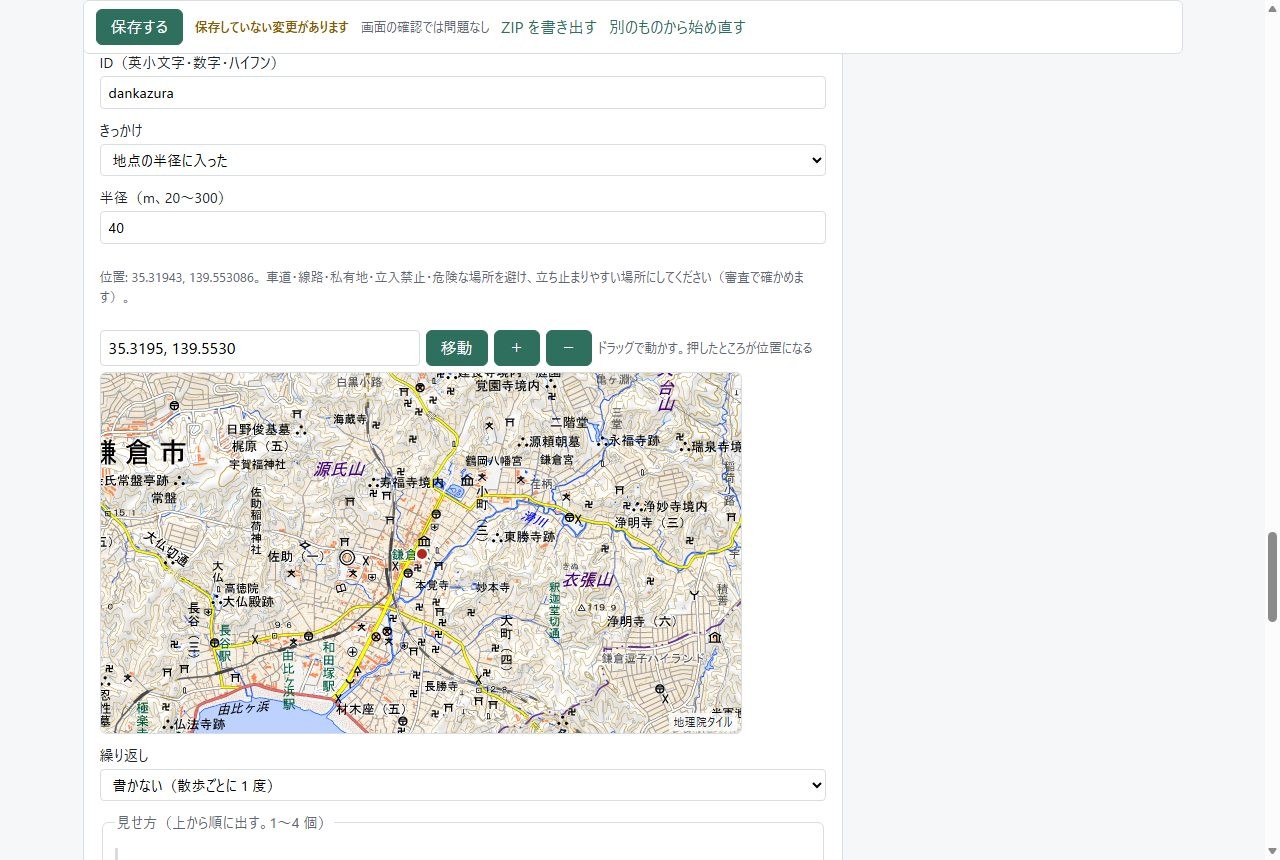
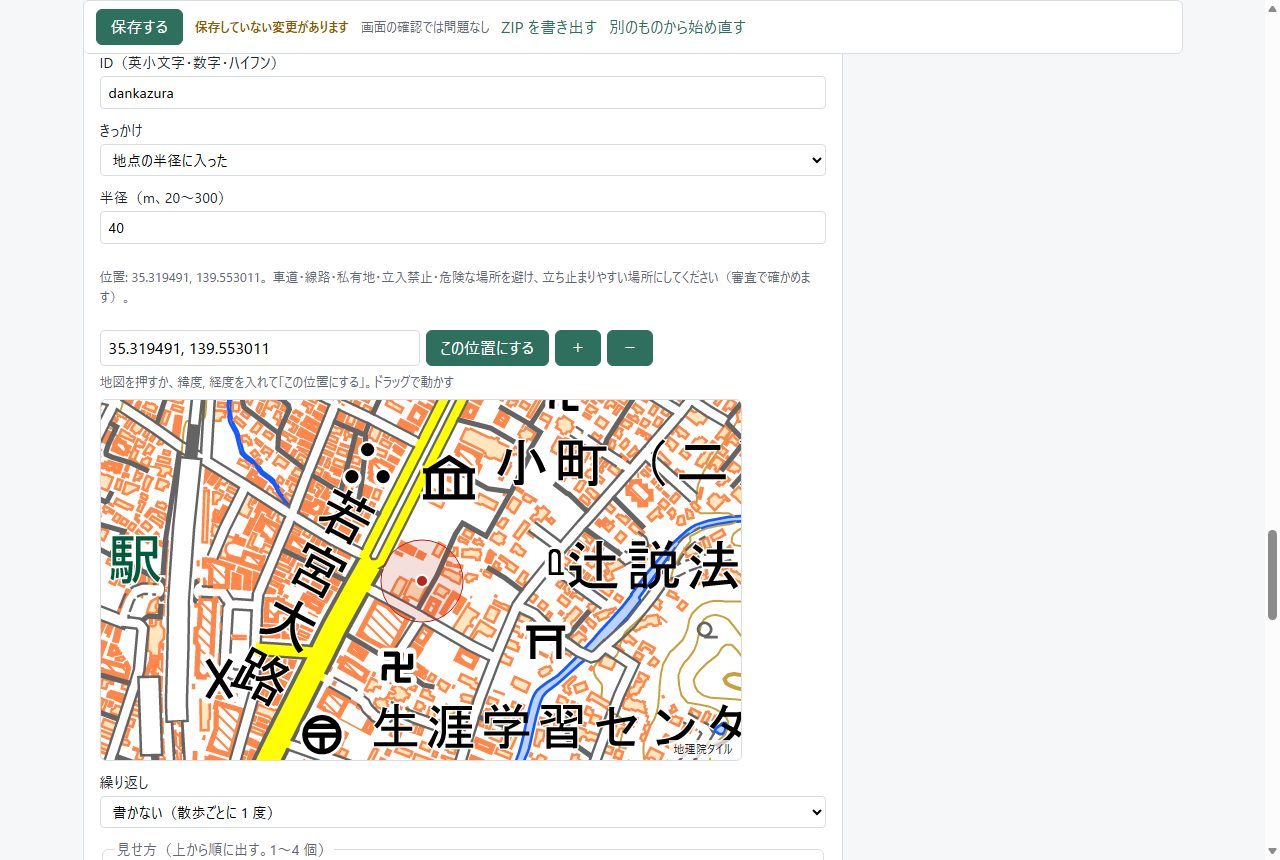
fix: 地図の位置を欄にも出し、緯度・経度を入れても位置を決められるようにする
地図を押すと、選んだ緯度・経度を地図の上の欄にも入れる。欄に入れて「この位置にする」
（Enter でも）を押すと、その場所を位置にする。位置を決めたら、半径の円が見える
縮尺まで拡大する。手順書の説明と画像も合わせる。

Changed region(s): [[0.0625, 0.3628, 0.625, 0.9977], [0.1562, 0.3023, 0.625, 0.3326], [0.625, 0.907, 0.6562, 0.9372]]

diff --git a/web/src/pages/point-map.tsx b/web/src/pages/point-map.tsx
@@ -1,8 +1,8 @@
-import { useRef, useState, type PointerEvent } from 'react';
+import { useEffect, useRef, useState, type PointerEvent } from 'react';
 import { fromPixel, toPixel } from '../geohash';
 
 // Choosing one place for a draft (DES-014): a cue's point or a resource's subject. GSI tiles as
-// for the studio's cells (cell-map.tsx); a click puts the point, a drag moves the map.
+// for the studio's cells (cell-map.tsx); a click or the typed coordinates put the point, a drag moves the map.
 
 const WIDTH = 640;
 const HEIGHT = 360;
@@ -10,17 +10,32 @@ const TILE = 256;
 const TILES = 'https://cyberjapandata.gsi.go.jp/xyz/std';
 /** Tokyo Station, until a point is chosen. */
 const START = { lat: 35.6812, lng: 139.7671 };
+/** Close enough to see a 20m radius once a point is chosen. */
+const POINT_ZOOM = 17;
 
 /** Metres per pixel at [lat] and [zoom] (Web Mercator). */
 const metresPerPixel = (lat: number, zoom: number) => (156543.03392 * Math.cos((lat * Math.PI) / 180)) / 2 ** zoom;
+const round6 = (v: number) => Math.round(v * 1e6) / 1e6;
 
 export function PointMap({ lat, lon, radiusM, onChange }: { lat?: number | undefined; lon?: number | undefined; radiusM?: number | undefined; onChange: (lat: number, lon: number) => void }) {
   const has = Number.isFinite(lat) && Number.isFinite(lon);
   const [center, setCenter] = useState(has ? { lat: lat!, lng: lon! } : START);
-  const [zoom, setZoom] = useState(has ? 17 : 14);
-  const [place, setPlace] = useState('');
+  const [zoom, setZoom] = useState(has ? POINT_ZOOM : 14);
+  const [place, setPlace] = useState(has ? `${String(lat)}, ${String(lon)}` : '');
   const drag = useRef<{ x: number; y: number; moved: boolean } | undefined>(undefined);
   const view = useRef<HTMLDivElement>(null);
+
+  // The box shows the chosen point, however it was chosen.
+  useEffect(() => {
+    if (Number.isFinite(lat) && Number.isFinite(lon)) setPlace(`${String(lat)}, ${String(lon)}`);
+  }, [lat, lon]);
+
+  /** Puts the point at [p], zooming in (around it) when the map is too far out to see the radius. */
+  const choose = (p: { lat: number; lng: number }, recenter: boolean) => {
+    if (recenter || zoom < POINT_ZOOM) setCenter(p);
+    setZoom((z) => Math.max(z, POINT_ZOOM));
+    onChange(round6(p.lat), round6(p.lng));
+  };
 
   const c = toPixel(center.lat, center.lng, zoom);
   const left = c.x - WIDTH / 2;
@@ -50,22 +65,23 @@ export function PointMap({ lat, lon, radiusM, onChange }: { lat?: number | undef
     drag.current = undefined;
     if (!d || d.moved || !view.current) return;
     const box = view.current.getBoundingClientRect();
-    const p = fromPixel(left + e.clientX - box.left, top + e.clientY - box.top, zoom);
-    onChange(Math.round(p.lat * 1e6) / 1e6, Math.round(p.lng * 1e6) / 1e6);
+    choose(fromPixel(left + e.clientX - box.left, top + e.clientY - box.top, zoom), false);
   };
   const go = () => {
     const m = /^\s*(-?\d+(?:\.\d+)?)\s*[,，\s]\s*(-?\d+(?:\.\d+)?)\s*$/.exec(place);
-    if (m) setCenter({ lat: Number(m[1]), lng: Number(m[2]) });
+    const p = m ? { lat: Number(m[1]), lng: Number(m[2]) } : undefined;
+    if (p && Math.abs(p.lat) <= 85 && Math.abs(p.lng) <= 180) choose(p, true);
   };
 
   return (
     <div className="cell-map">
       <div className="cell-map-tools">
-        <input placeholder="緯度, 経度（例 35.3260, 139.5565。地図サービスからコピー）" value={place} onChange={(e) => setPlace(e.target.value)} />
-        <button type="button" onClick={go}>移動</button>
+        <input aria-label="位置（緯度, 経度）" placeholder="緯度, 経度（例 35.3260, 139.5565。地図サービスからコピー）" value={place}
+          onChange={(e) => setPlace(e.target.value)} onKeyDown={(e) => { if (e.key === 'Enter') { e.preventDefault(); go(); } }} />
+        <button type="button" onClick={go}>この位置にする</button>
         <button type="button" onClick={() => setZoom((z) => Math.min(18, z + 1))} aria-label="拡大">＋</button>
         <button type="button" onClick={() => setZoom((z) => Math.max(5, z - 1))} aria-label="縮小">－</button>
-        <span className="muted small">ドラッグで動かす。押したところが位置になる</span>
+        <span className="muted small">地図を押すか、緯度, 経度を入れて「この位置にする」。ドラッグで動かす</span>
       </div>
       <div ref={view} className="cell-map-view" style={{ width: WIDTH, height: HEIGHT }} onPointerDown={onDown} onPointerMove={onMove} onPointerUp={onUp} onPointerLeave={() => (drag.current = undefined)}>
         {tiles.map((t) => (

diff --git a/docs/manual/producer.md b/docs/manual/producer.md
@@ -93,7 +93,7 @@ resources/
 
 ### 3.3 画面で作る
 
-「素材集」で対象の素材集を開き、「画面で作る」の「下書きを作る」（下書きがあれば「下書きを編集する」）を押します。基本・利用許諾・素材（題材とタグを含む）を、それぞれの欄で入れます。題材の位置は、地理院タイルの地図を押して選びます。画面の画像つきの手順は [画面でチャンネルを作る](editor-guide.md#14-素材集の場合) にあります。
+「素材集」で対象の素材集を開き、「画面で作る」の「下書きを作る」（下書きがあれば「下書きを編集する」）を押します。基本・利用許諾・素材（題材とタグを含む）を、それぞれの欄で入れます。題材の位置は、地理院タイルの地図を押すか、地図の上の欄に緯度・経度を入れて「この位置にする」で選びます。画面の画像つきの手順は [画面でチャンネルを作る](editor-guide.md#14-素材集の場合) にあります。
 
 - **始め方**: 空から（必須の項目に既定の値が入ります）、自分の過去の申請から（承認された版はいつでも、そのほかの申請は結果が出てから 90 日まで）、手元の ZIP から（署名の前・後どちらでも。`signature.json` は捨てます）。版は、最後に承認された版より大きい番号に直し、`producer` はあなたのアカウントIDにします
 - **保存**: 「保存する」で、下書きを管理システムに残します。どの端末からでも続きを編集できます。下書きは素材集ごとに 1 つで、最後の保存から 180 日で消えます。退会すると消えます。下書きはあなただけが見られ、運営も見ません。鍵のファイルと合言葉は下書きに入りません

diff --git a/docs/manual/publisher.md b/docs/manual/publisher.md
@@ -132,7 +132,7 @@ prompts/
 - **外部の素材**: 画面は、あなたの置き場所から素材を読みに行きません。置き場所に上げる前の手元のファイルを選ぶと、大きさと SHA-256（音声・映像は長さも）をブラウザの中で計算して入れます（ファイルは送りません）。手で入れることもできます（`sha256sum`、Windows は `certutil -hashfile <ファイル> SHA256`）
 - **そのほかの項目**: フォームにない項目（`selectors`・`shorthands` など）は「そのほかの項目」に JSON で書きます。読み込んだ ZIP の項目は、フォームにないものも消えません
 - 「ZIP を書き出す」で、署名する前のパッケージを手元に保存できます
-- きっかけの地点と、地図で選ぶ位置は、地理院タイルの地図を押して選びます。地点は、車道・線路・私有地・立入禁止・危険な場所を避けてください（審査で確かめます）
+- きっかけの地点は、地理院タイルの地図を押すか、地図の上の欄に緯度・経度を入れて「この位置にする」で選びます。地点は、車道・線路・私有地・立入禁止・危険な場所を避けてください（審査で確かめます）
 
 ## 4. 申請する
 

diff --git a/docs/design/DES-014-package-editor.md b/docs/design/DES-014-package-editor.md
@@ -88,7 +88,7 @@
 | 確かめる | 「機械審査にかける」（保存した下書きを確かめる。R-16）と結果。保存したあとに変えた分は確かめていないことを示す | 同じ |
 | 申請 | アイコン（PNG、256×256 以下、100KB 以下）・説明・タグ・地域・運営への説明 → 「AI の一次審査」 → 鍵のファイルと合言葉 →「署名して申請する」 | 運営への説明 →「AI の一次審査」→ 鍵 →「署名して申請する」 |
 
-- 地図は、スタジオの区画を選ぶ画面と同じ地理院のタイルの地図（`cell-map.tsx`）を、1 つの点を選べるようにして使う
+- 地図は、スタジオの区画を選ぶ画面と同じ地理院のタイルの地図（`cell-map.tsx`）を、1 つの点を選べるようにして使う。点は、地図を押すか、地図の上の欄に緯度・経度を入れて決める。決めた点は欄にも出し、半径の円が見える縮尺（17）まで拡大する
 - 「ZIP を書き出す」で、下書きのパッケージ（署名前）を手元に保存できる。今の「ZIP を選んで申請する」はそのまま残す
 - 保存は「保存する」のボタン。変えたまま画面を離れようとしたら知らせる
 
